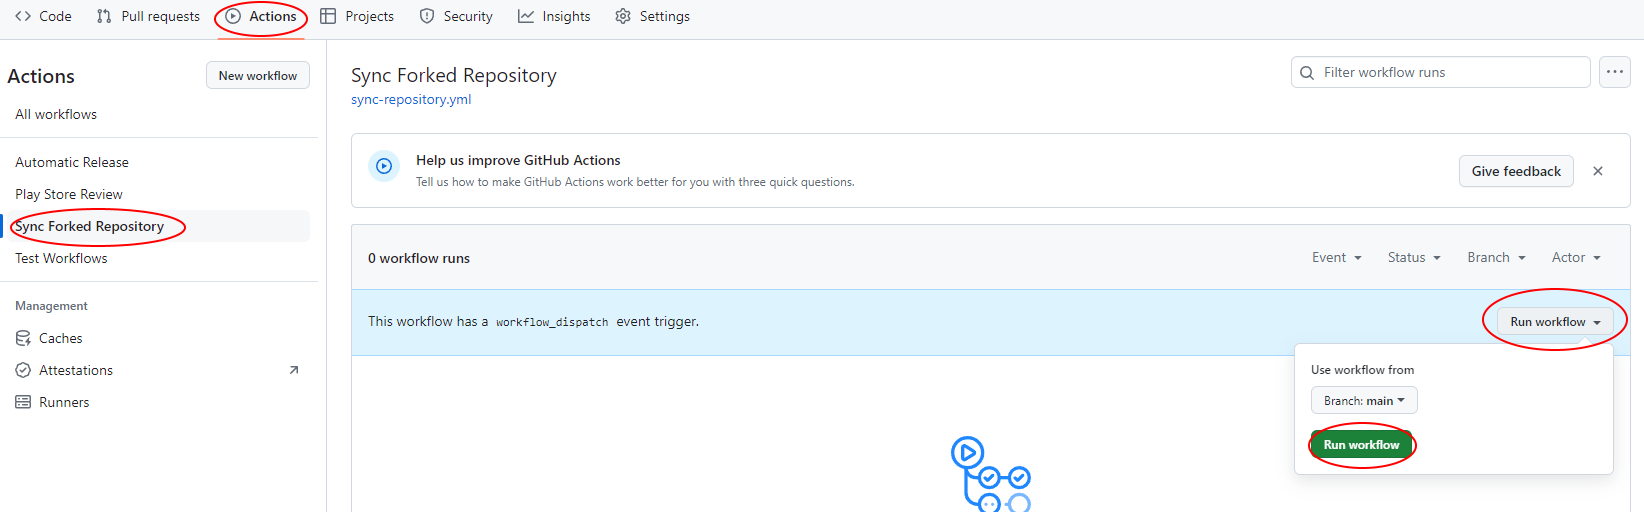
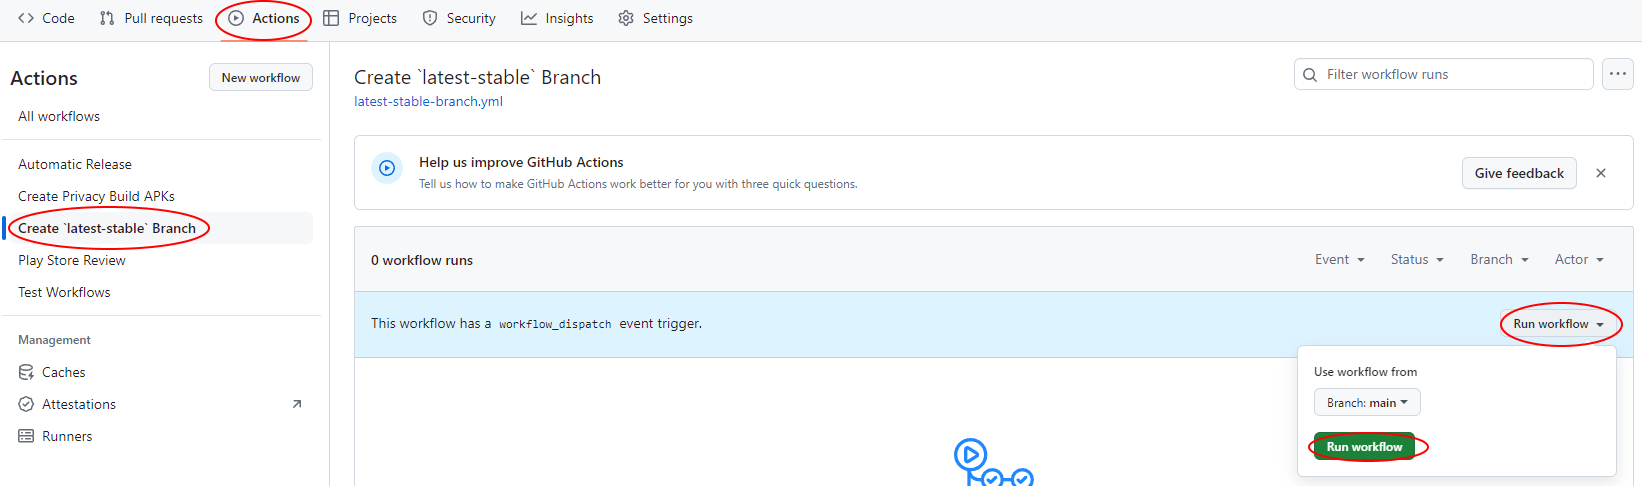
ci: Revised some workflow names

diff --git a/docs/personal-privacy-build.md b/docs/personal-privacy-build.md
@@ -56,7 +56,7 @@ In the newly created forked repository, click the `Actions` tab and then the `I 
 
 ## Step 4: Create branch for latest version of the app (includes pre-release)
 
-Now, click `Sync Forked Repository` in the sidebar while in the `Actions` tab. Next click on the `Run workflow` dropdown on the right and click `Run workflow`. Make sure that under `Use workflow from`, `Branch: main` is selected. This will create a new `latest-stable` branch.
+Now, click ```Create `latest-stable` Branch``` in the sidebar while in the `Actions` tab. Next click on the `Run workflow` dropdown on the right and click `Run workflow`. Make sure that under `Use workflow from`, `Branch: main` is selected. This will create a new `latest-stable` branch.
 
 <img src="./assets/personal-privacy-build/create_latest_stable_branch.png" alt="Visual steps on creating the `latest-stable` branch." />
 
